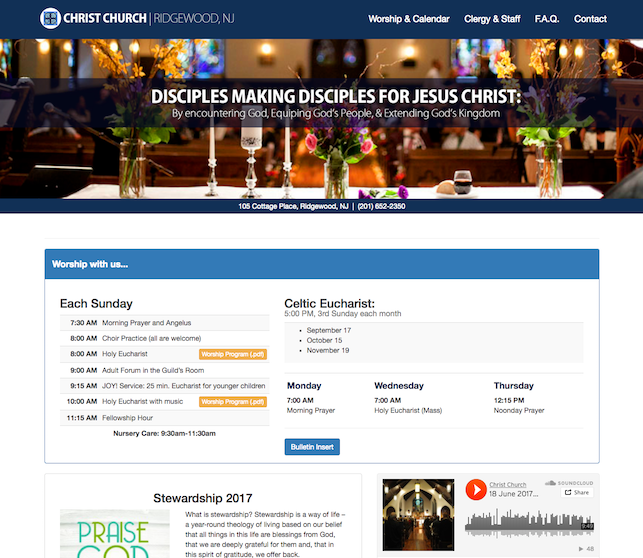
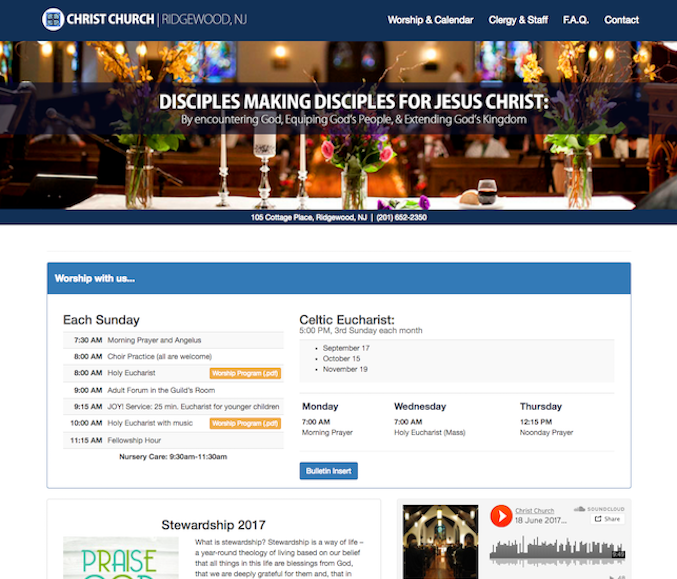
resize images to equal dimensions

diff --git a/index.html b/index.html
@@ -47,7 +47,7 @@
         <div class="featured col-md-4">
           <a href="https://drdevlyn.com/" target="blank">
           <img src="images/client-drdevlyn.png" class="img-fluid featured-image" alt="website for Dr. Devlyn McCreight"></a>
-          <h2 class="featured-title">Dr. Devlyn</h2>
+          <h2 class="featured-title">Dr. Devlyn McCreight</h2>
           <a href="https://drdevlyn.com/" target="blank"><p class="featured-address">https://drdevlyn.com/</p></a>
         </div>
         <div class="featured col-md-4">
